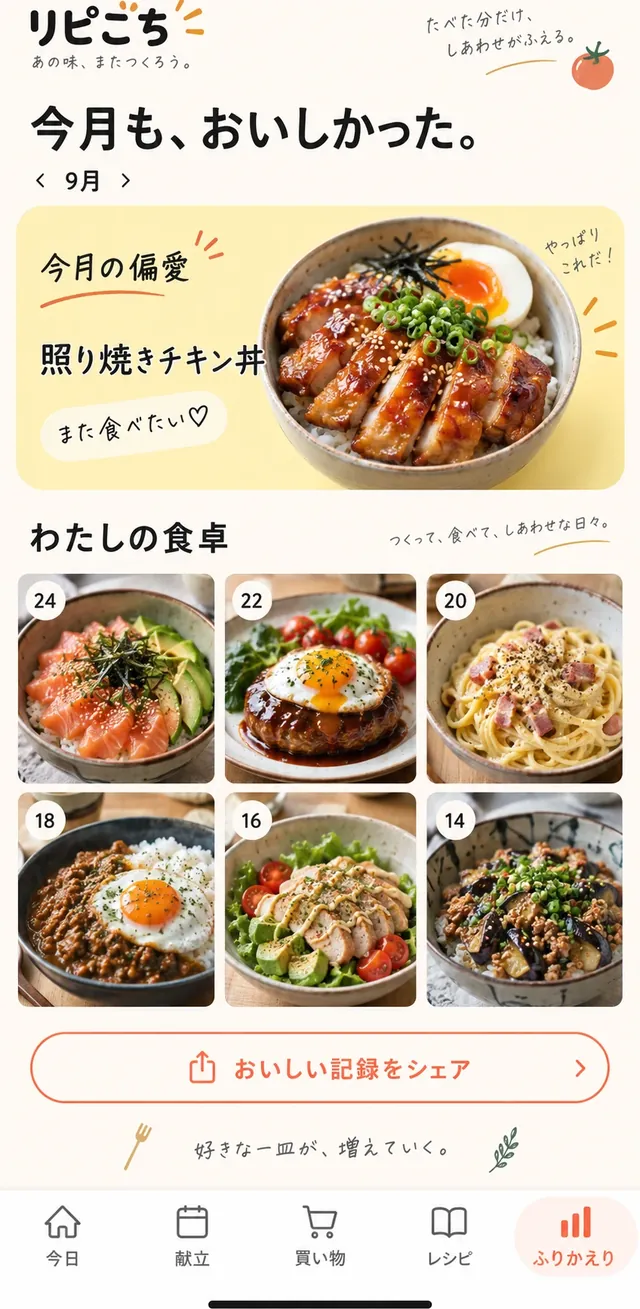
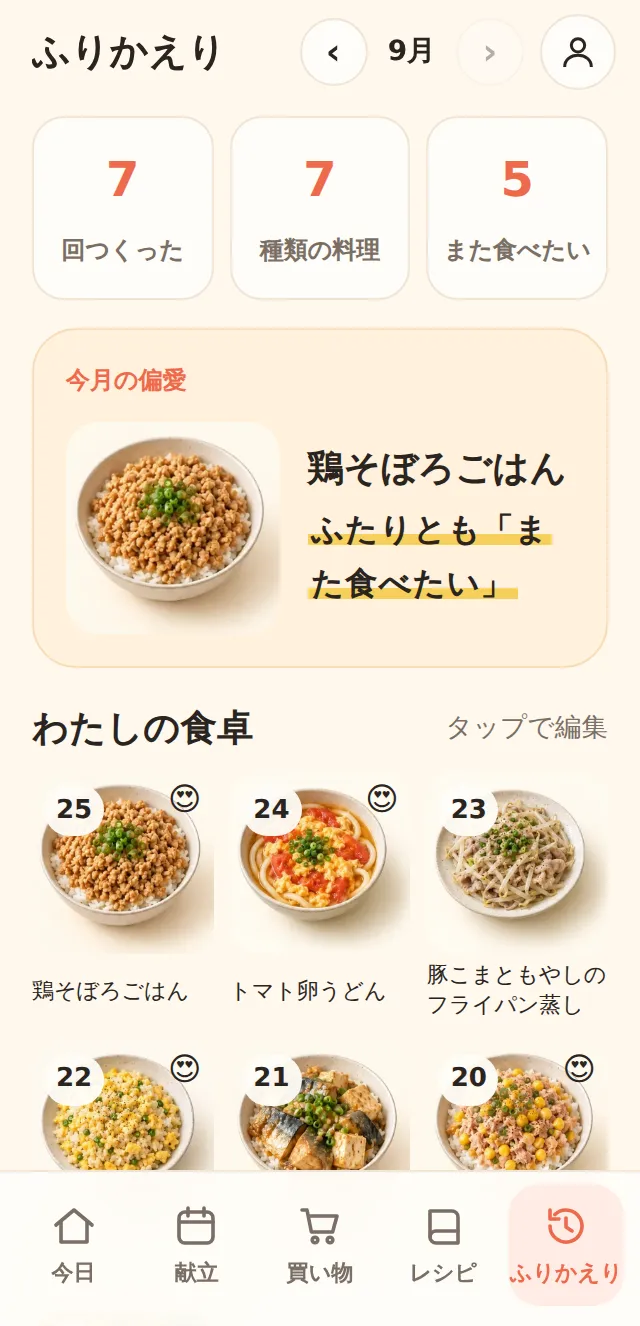
LP: today's features with real app screens (#32)
- Screens are fresh captures of the current app (today, plan, shopping, recipes, records)
- Steps: 買い物の日を決めたら献立がそろう (3日ずつ/1週間/平日だけ, skills, dislikes) and the one-screen shopping list
- New ふたりで使う section: invite link, 🙋 requests, shopping deadline message
- Recipes: 📋 paste / share-sheet saving, servings read from captions, creators and color tags; playlist import no longer 準備中
- FAQ: how to save SNS recipe videos, how to use it together
- App: month label without the year, readable page title on 320px, trip date on one line

Claude-Session: https://claude.ai/code/session_01StTAX8i8GaRevC5aWo9T5p

diff --git a/lp/index.html b/lp/index.html
@@ -4,9 +4,9 @@
     <meta charset="utf-8" />
     <meta name="viewport" content="width=device-width, initial-scale=1, viewport-fit=cover" />
     <title>リピごち | かぶらない、飽きない、また食べたい。ふたりの夜ごはん</title>
-    <meta name="description" content="最近食べたものと、ふたりの「また食べたい」を覚えて、かぶらない夜ごはんを3日分。買い物リストまで自動で。ふたり暮らし・ひとり暮らしの夜ごはんアプリ「リピごち」。公開のお知らせをメールで受け取れます。" />
+    <meta name="description" content="最近食べたものと、ふたりの「また食べたい」を覚えて、買い物の日に合わせて、かぶらない夜ごはんを。スマホ1画面の買い物リスト、SNSのレシピ動画の保存まで。ふたり暮らし・ひとり暮らしの夜ごはんアプリ「リピごち」。公開のお知らせをメールで受け取れます。" />
     <meta property="og:title" content="リピごち | かぶらない、飽きない、また食べたい。" />
-    <meta property="og:description" content="最近食べたものと、ふたりの「また食べたい」を覚えて、かぶらない夜ごはんを3日分。公開のお知らせを受け付け中。" />
+    <meta property="og:description" content="最近食べたものと、ふたりの「また食べたい」を覚えて、買い物の日に合わせて、かぶらない夜ごはんを。いまのβ版は無料。" />
     <meta property="og:type" content="website" />
     <meta property="og:url" content="https://165cm.github.io/matagochi/lp/" />
     <meta property="og:image" content="https://165cm.github.io/matagochi/lp/assets/ogp-20260924.jpg" />
@@ -19,18 +19,18 @@
     <meta name="twitter:image:alt" content="今夜、これ食べたい。3問で、3日分の夜ごはんと買い物リスト" />
     <meta name="theme-color" content="#fff8ee" />
     <link rel="canonical" href="https://165cm.github.io/matagochi/lp/" />
-    <link rel="icon" href="../icons/favicon-32.png?v=20260926-fetchfix" />
+    <link rel="icon" href="../icons/favicon-32.png?v=20260926-lp" />
     <link rel="preconnect" href="https://fonts.googleapis.com" />
     <link rel="preconnect" href="https://fonts.gstatic.com" crossorigin />
     <link rel="stylesheet" href="https://fonts.googleapis.com/css2?family=Zen+Maru+Gothic:wght@500;700;900&family=Klee+One:wght@600&display=swap" />
-    <link rel="preload" as="image" href="assets/screen-recent.webp" />
-    <link rel="stylesheet" href="styles.css?v=20260924-waitlist" />
+    <link rel="preload" as="image" href="assets/screen-today.webp" />
+    <link rel="stylesheet" href="styles.css?v=20260926-lp" />
   </head>
   <body>
     <header class="site-header">
       <div class="container header-inner">
         <a class="brand" href="#top" aria-label="リピごち トップへ">
-          <img class="brand-icon" src="../icons/icon-192.png?v=20260926-fetchfix" width="40" height="40" alt="" /><span class="logo">リピごち</span>
+          <img class="brand-icon" src="../icons/icon-192.png?v=20260926-lp" width="40" height="40" alt="" /><span class="logo">リピごち</span>
           <span class="hand brand-note">また、これ食べたい。</span>
         </a>
         <a class="button button-small" href="#waitlist"><span class="wide-only">公開の</span>お知らせ登録</a>
@@ -44,7 +44,7 @@
           <div class="hero-copy">
             <p class="pill">ふたり暮らし・ひとり暮らしの夜ごはんアプリ</p>
             <h1>かぶらない、<br />飽きない、<br /><span class="marker nobr">また食べたい。</span></h1>
-            <p class="lead"><span class="nobr">最近食べたものと、</span><span class="nobr">ふたりの「また食べたい」を覚えて、</span><span class="nobr">ちょうどいい夜ごはんを3日分。</span></p>
+            <p class="lead"><span class="nobr">最近食べたもの、</span><span class="nobr">ふたりの「また食べたい」、</span><span class="nobr">料理の腕前まで覚えて、</span><span class="nobr">次の買い物までの夜ごはんを。</span></p>
             <form class="waitlist-form waitlist-inline" data-source="hero" novalidate>
               <label class="sr-only" for="wl-email-hero">メールアドレス</label>
               <input id="wl-email-hero" class="wl-email" type="email" name="email" inputmode="email" autocomplete="email" placeholder="メールアドレス" required />
@@ -56,11 +56,11 @@
             <p class="beta-link small"><a class="text-link" href="../?start=quick">いまのβ版を、無料で試してみる →</a></p>
           </div>
           <div class="hero-visual">
-            <p class="hand note note-a" aria-hidden="true">一昨日パスタなら、<br />今日はごはんもの。</p>
+            <p class="hand note note-a" aria-hidden="true">一昨日うどんなら、<br />今日はごはんもの。</p>
             <figure class="phone phone-hero">
-              <img src="assets/screen-recent.webp" width="640" height="1326" alt="リピごちの今日の画面。最近のごはん「一昨日 納豆パスタ」「昨日 親子丼」と、今夜のおすすめ「照り焼きチキン丼：一昨日はパスタだったので、ごはんものに」「ふたりとも好き」" fetchpriority="high" /><figcaption>画面はイメージです（開発中）</figcaption>
+              <img src="assets/screen-today.webp" width="640" height="1326" alt="リピごちの今日の画面。今夜の一品「もやしでかさまし鶏つくね丼」と、理由「一昨日はうどんだったので、ごはんものに」、作り方を見るボタン" fetchpriority="high" /><figcaption>いまのβ版の画面です</figcaption>
             </figure>
-            <span class="sticker sticker-time" aria-hidden="true">🍝 → 🍚 かぶらない</span>
+            <span class="sticker sticker-time" aria-hidden="true">🍜 → 🍚 かぶらない</span>
             <span class="sticker sticker-list" aria-hidden="true">😋 ふたりとも好き</span>
           </div>
         </div>
@@ -135,7 +135,7 @@
               <p class="hand promise-note">久しぶりの、あの味。</p>
             </article>
           </div>
-          <p class="center small muted">正式版で順次お届けする機能です。いまのβ版では一部をお試しいただけます。</p>
+          <p class="center small muted">どれも、いまのβ版で無料で使えます。</p>
         </div>
       </section>
 
@@ -146,34 +146,62 @@
           <h2 class="center">3ステップで、<span class="marker nobr">今夜が決まる。</span></h2>
 
           <article class="step">
-            <figure class="phone"><img src="assets/screen-plan.webp" width="640" height="1309" alt="献立の画面。3日分の料理が写真付きで並び、それぞれ入れ替えられる" loading="lazy" /><figcaption>画面はイメージです（開発中）</figcaption></figure>
+            <figure class="phone"><img src="assets/screen-plan.webp" width="640" height="1326" alt="献立の画面。今週のカレンダーに決まった料理の写真が並び、その下に買い物ごとの献立が1行ずつ並ぶ" loading="lazy" /><figcaption>いまのβ版の画面です</figcaption></figure>
             <div class="step-copy">
               <span class="step-no">1</span>
-              <h3>3問で、3日分。</h3>
-              <p>人数・平日の調理時間・食べられない食材だけ。気分じゃなければ、ワンタップで入れ替え。</p>
-              <p class="hand step-note">3日分でも7日分でも◎</p>
+              <h3>買い物の日を決めたら、献立がそろう。</h3>
+              <p>「3日ずつ」「1週間」「平日だけ」から選ぶだけ。人数・調理時間・苦手な食材・料理の腕前に合わせて、次の買い物までの献立を提案します。気分じゃなければ、ワンタップで入れ替え。</p>
+              <p class="hand step-note">腕前は、1分の診断で。</p>
             </div>
           </article>
 
           <article class="step reverse">
-            <figure class="phone"><img src="assets/screen-shopping.webp" width="640" height="1326" alt="買い物の画面。確定した献立の材料が売り場ごとに並び、タップで購入済みにできる" loading="lazy" /><figcaption>画面はイメージです（開発中）</figcaption></figure>
+            <figure class="phone"><img src="assets/screen-shopping.webp" width="640" height="1326" alt="買い物の画面。材料が売り場ごとに1行ずつ並び、行の右にどの料理に使うかの小さな写真が付く" loading="lazy" /><figcaption>いまのβ版の画面です</figcaption></figure>
             <div class="step-copy">
               <span class="step-no">2</span>
-              <h3>決めたら、買い物リスト。</h3>
-              <p>確定した献立の材料だけを、売り場ごとにまとめます。家にあるものはよけて、買ったらタップ。</p>
+              <h3>買い物リストは、スマホ1画面。</h3>
+              <p>献立の材料だけを、スーパーを回る順に1行ずつ。どの料理に使うかは小さな写真でひと目で。家にある常備品はよけて、全部そろったら「買い物完了」。</p>
               <p class="hand step-note">LINEで送って、おつかいも</p>
             </div>
           </article>
 
           <article class="step">
-            <figure class="phone"><img src="assets/screen-records.webp" width="640" height="1309" alt="ふりかえりの画面のイメージ。作った料理の写真が並ぶ" loading="lazy" /><figcaption>画面はイメージです（開発中）</figcaption></figure>
+            <figure class="phone"><img src="assets/screen-records.webp" width="640" height="1326" alt="ふりかえりの画面。今月つくった回数と「また食べたい」の数、今月の偏愛の一皿、作った料理の写真が日付つきで並ぶ" loading="lazy" /><figcaption>いまのβ版の画面です</figcaption></figure>
             <div class="step-copy">
               <span class="step-no">3</span>
               <h3>食べたら、ふたりで「また食べたい」。</h3>
-              <p>ひとりずつワンタップ。記録がたまるほど、次の3日分がふたりの好みに近づきます。</p>
+              <p>ひとりずつワンタップ。記録がたまるほど、次の献立がふたりの好みに近づきます。月ごとの「偏愛の一皿」も。</p>
               <p class="hand step-note">好きな一皿が、増えていく。</p>
             </div>
           </article>
+        </div>
+      </section>
+
+      <!-- ふたりで使う -->
+      <section class="promise together" id="together">
+        <div class="container">
+          <p class="kicker center">ふたりで使う</p>
+          <h2 class="center">招待リンクひとつで、<br /><span class="marker nobr">ふたりの献立に。</span></h2>
+          <div class="promise-grid">
+            <article>
+              <span class="promise-icon" aria-hidden="true">🔗📱</span>
+              <h3>LINEで招待、すぐつながる</h3>
+              <p>献立・レシピ・買い物リストが、もうひとりのスマホにも。アカウント登録はいりません。</p>
+              <p class="hand promise-note">見るだけの家族も、気軽に。</p>
+            </article>
+            <article>
+              <span class="promise-icon" aria-hidden="true">🙋🍛</span>
+              <h3>「これ食べたい」を送れる</h3>
+              <p>食べたい料理や「この日を変えたい」を、ワンタップでリクエスト。買い物の前なら、献立に入ります。</p>
+              <p class="hand promise-note">「なんでもいい」から卒業。</p>
+            </article>
+            <article>
+              <span class="promise-icon" aria-hidden="true">🛒⏰</span>
+              <h3>買い物の前に、ひと声</h3>
+              <p>「◯日に買い物に行く予定。変更のリクエストはそれまでに！」を、そのままLINEへ。</p>
+              <p class="hand promise-note">締め切りがあると、決めやすい。</p>
+            </article>
+          </div>
         </div>
       </section>
 
@@ -183,14 +211,16 @@
           <div class="split-copy">
             <p class="kicker">レシピ</p>
             <h2>保存しただけの<br /><span class="marker nobr">レシピ動画も、</span><span class="marker nobr">献立に。</span></h2>
-            <p>SNSで見つけたレシピは、リンク・スクショ・手入力で残せます。保存したレシピも、最近食べたものとかぶらないように献立に入ります。</p>
+            <p>YouTube・TikTok・Instagramで見つけたレシピは、リンクをコピーして📋ボタンでそのまま保存（Androidは共有メニューからも）。説明文から、材料・作り方・何人分かを読み取ります。保存したレシピも、かぶらないように献立に入ります。</p>
             <ul class="checks">
-              <li>最初から、すぐ作れるオリジナルレシピ入り</li>
+              <li>チャンネル・アカウントごとに、保存したレシピを一覧</li>
+              <li>主食・素材・気分の色分けタグで、すぐ絞り込み</li>
               <li>スクショからAIが下書き。確認してから保存</li>
-              <li>YouTubeの再生リストからまとめて追加<span class="small">（準備中）</span></li>
+              <li>YouTubeの再生リストからまとめて追加</li>
+              <li>最初から、すぐ作れるオリジナルレシピ入り</li>
             </ul>
           </div>
-          <figure class="phone"><img src="assets/screen-recipes.webp" width="640" height="1326" alt="レシピの画面のイメージ。料理の写真が2列で並び、調理時間が表示される" loading="lazy" /><figcaption>画面はイメージです（開発中）</figcaption></figure>
+          <figure class="phone"><img src="assets/screen-recipes.webp" width="640" height="1326" alt="レシピの画面。コピーしたURLから保存するボタン、色分けされた絞り込みタグ、保存したレシピの写真が並ぶ" loading="lazy" /><figcaption>いまのβ版の画面です</figcaption></figure>
         </div>
       </section>
 
@@ -293,12 +323,20 @@
             <p>いまは全機能を無料で提供しています。保存・記録・バックアップの基本機能はこの先も無料です。有料プランは価格や内容が決まる前にお知らせし、自動で課金に切り替えることはありません。</p>
           </details>
           <details>
+            <summary>SNSのレシピ動画は、どうやって保存しますか？</summary>
+            <p>YouTube・TikTok・Instagramで動画の「共有 → リンクをコピー」をして、リピごちのレシピ画面の「📋 コピーしたURLから保存」を押すだけです。Androidでホーム画面に追加している場合は、共有メニューに出る「リピごち」からも保存できます。説明文に材料が書かれていない動画は、スクショや手入力で補えます。</p>
+          </details>
+          <details>
+            <summary>ふたりで使うには、どうすればいいですか？</summary>
+            <p>設定の「ふたりで使う」から招待リンクを作って、LINEなどで送るだけです。相手がリンクを開くと、献立・レシピ・買い物リストが同じになります。「見るだけ」で参加して、食べたいものをリクエストする使い方もできます。</p>
+          </details>
+          <details>
             <summary>アレルギーがあっても大丈夫？</summary>
             <p>食べられない食材を設定すると、その食材を含む料理は提案しません。ただし安全を保証するものではありません。市販品の原材料表示は必ずご自身で確認してください。</p>
           </details>
           <details>
             <summary>iPhoneでも使えますか？</summary>
-            <p>使えます。SafariやChromeで開いて「ホーム画面に追加」すると、アプリのように起動できます。</p>
+            <p>使えます。Safariで開いて、共有ボタンから「ホーム画面に追加」すると、アプリのように起動できます。</p>
           </details>
           <details id="privacy">
             <summary>メールアドレスはどう扱われますか？</summary>

diff --git a/index.html b/index.html
@@ -22,14 +22,14 @@
     <meta name="apple-mobile-web-app-status-bar-style" content="default">
     <meta name="apple-mobile-web-app-title" content="リピごち">
     <link rel="canonical" href="https://165cm.github.io/matagochi/">
-    <link rel="manifest" href="manifest.webmanifest?v=20260926-fetchfix">
-    <link rel="icon" type="image/png" sizes="32x32" href="icons/favicon-32.png?v=20260926-fetchfix">
-    <link rel="apple-touch-icon" href="icons/apple-touch-icon.png?v=20260926-fetchfix">
+    <link rel="manifest" href="manifest.webmanifest?v=20260926-lp">
+    <link rel="icon" type="image/png" sizes="32x32" href="icons/favicon-32.png?v=20260926-lp">
+    <link rel="apple-touch-icon" href="icons/apple-touch-icon.png?v=20260926-lp">
     <title>リピごち</title>
     <link rel="preconnect" href="https://fonts.googleapis.com">
     <link rel="preconnect" href="https://fonts.gstatic.com" crossorigin>
     <link rel="stylesheet" href="https://fonts.googleapis.com/css2?family=Zen+Maru+Gothic:wght@500;700;900&family=Klee+One:wght@600&display=swap">
-    <link rel="stylesheet" href="styles.css?v=20260926-fetchfix">
+    <link rel="stylesheet" href="styles.css?v=20260926-lp">
   </head>
   <body>
     <div class="app-shell">
@@ -56,18 +56,18 @@
     <script>
       window.MATAGOCHI_API_BASE_URL = "https://matagochi-api-292190013809.us-central1.run.app";
     </script>
-    <script src="dinner-persona.js?v=20260926-fetchfix"></script>
-    <script src="taste.js?v=20260926-fetchfix"></script>
-    <script src="taste-ui.js?v=20260926-fetchfix"></script>
-    <script src="starter-recipes.js?v=20260926-fetchfix"></script>
-    <script src="skills.js?v=20260926-fetchfix"></script>
-    <script src="aisles.js?v=20260926-fetchfix"></script>
-    <script src="lifestyle.js?v=20260926-fetchfix"></script>
-    <script src="daily-ui.js?v=20260926-fetchfix"></script>
-    <script src="image-import.js?v=20260926-fetchfix"></script>
-    <script src="playlist-import.js?v=20260926-fetchfix"></script>
-    <script src="household.js?v=20260926-fetchfix"></script>
-    <script src="skill-quiz.js?v=20260926-fetchfix"></script>
-    <script src="app.js?v=20260926-fetchfix"></script>
+    <script src="dinner-persona.js?v=20260926-lp"></script>
+    <script src="taste.js?v=20260926-lp"></script>
+    <script src="taste-ui.js?v=20260926-lp"></script>
+    <script src="starter-recipes.js?v=20260926-lp"></script>
+    <script src="skills.js?v=20260926-lp"></script>
+    <script src="aisles.js?v=20260926-lp"></script>
+    <script src="lifestyle.js?v=20260926-lp"></script>
+    <script src="daily-ui.js?v=20260926-lp"></script>
+    <script src="image-import.js?v=20260926-lp"></script>
+    <script src="playlist-import.js?v=20260926-lp"></script>
+    <script src="household.js?v=20260926-lp"></script>
+    <script src="skill-quiz.js?v=20260926-lp"></script>
+    <script src="app.js?v=20260926-lp"></script>
   </body>
 </html>

diff --git a/styles.css b/styles.css
@@ -2743,3 +2743,10 @@ body.has-page-title .page-title { display: block; }
 .ingredient-editor-list .ingredient-editor-row { align-items: center; } .ingredient-editor-list .ingredient-editor-row .input { height: 32px; }
 .entry-detail-panel .ingredient-head { display: flex; flex-direction: row; flex-wrap: nowrap; align-items: center; gap: 4px; } .entry-detail-panel .ingredient-head > span { display: flex; flex: 0 0 auto; }
 .app-version { margin: 12px 0 0; text-align: center; font-size: 11px; color: var(--muted); }
+/* Small phones: keep the page name readable next to page buttons. */
+.page-title { flex-shrink: 0; }
+.topbar-actions .month-nav .round-icon { width: 34px; height: 34px; min-height: 34px; font-size: 18px; }
+.topbar-actions .month-nav strong { font-size: 14px; min-width: 2.6em; text-align: center; }
+.shop-head .trip-range { white-space: nowrap; overflow: hidden; text-overflow: ellipsis; }
+@media (max-width: 360px) { .shop-head .trip-range { font-size: 11px; } }
+body.has-page-title .brand-block { flex: 1 0 auto; }

diff --git a/sw.js b/sw.js
@@ -1,5 +1,5 @@
-const CACHE_NAME = "ripigochi-v43";
-const APP_VERSION = "20260926-fetchfix";
+const CACHE_NAME = "ripigochi-v44";
+const APP_VERSION = "20260926-lp";
 const CORE_ASSETS = [
   "./",
   "./index.html",
@@ -22,12 +22,12 @@ const CORE_ASSETS = [
   `./skill-quiz.js?v=${APP_VERSION}`,
   `./app.js?v=${APP_VERSION}`,
   `./image-import.js?v=${APP_VERSION}`,
-  "./manifest.webmanifest?v=20260926-fetchfix",
-  "./icons/favicon-32.png?v=20260926-fetchfix",
-  "./icons/icon-192.png?v=20260926-fetchfix",
-  "./icons/icon-512.png?v=20260926-fetchfix",
-  "./icons/icon-maskable-512.png?v=20260926-fetchfix",
-  "./icons/apple-touch-icon.png?v=20260926-fetchfix"
+  "./manifest.webmanifest?v=20260926-lp",
+  "./icons/favicon-32.png?v=20260926-lp",
+  "./icons/icon-192.png?v=20260926-lp",
+  "./icons/icon-512.png?v=20260926-lp",
+  "./icons/icon-maskable-512.png?v=20260926-lp",
+  "./icons/apple-touch-icon.png?v=20260926-lp"
 ];
 
 self.addEventListener("install", (event) => {

diff --git a/daily-ui.js b/daily-ui.js
@@ -684,7 +684,7 @@ let reflMonth = 0; // 0 = this month, -1 = last month, ...
 function reflectionMonth() {
   const [y, m] = today().split("-").map(Number);
   const d = new Date(y, m - 1 + reflMonth, 1);
-  return { key: `${d.getFullYear()}-${String(d.getMonth() + 1).padStart(2, "0")}`, label: `${d.getFullYear()}年${d.getMonth() + 1}月` };
+  return { key: `${d.getFullYear()}-${String(d.getMonth() + 1).padStart(2, "0")}`, label: d.getFullYear() === new Date().getFullYear() ? `${d.getMonth() + 1}月` : `${d.getFullYear()}年${d.getMonth() + 1}月` };
 }
 function renderReflection() {
   const month = reflectionMonth();

diff --git a/app.js b/app.js
@@ -8,7 +8,7 @@ const SYNC_DEBOUNCE_MS = 8000;
 const SYNC_ROOM_ID_PATTERN = /^[a-f0-9]{64}$/;
 
 const defaultFamily = ["自分"];
-const APP_VERSION = "20260926-fetchfix";
+const APP_VERSION = "20260926-lp";
 const emptyDraft = { sourceServings: null, catalog: null, title: "", videoUrl: "", source: "", author: "", mealType: "dinner", caption: "", note: "" };
 const defaultRepeatCycle = "weekly";
 const repeatOptions = [

diff --git a/lp/styles.css b/lp/styles.css
@@ -362,3 +362,4 @@ body.is-registered .sticky-cta { display: none; }
 .quiz-skill { padding-top: 0; }
 .quiz-skill .quiz-card { background: #fff1dc; }
 .skill-row img { border-radius: 50%; object-fit: cover; }
+.promise.together { background: #fff1e6; }
